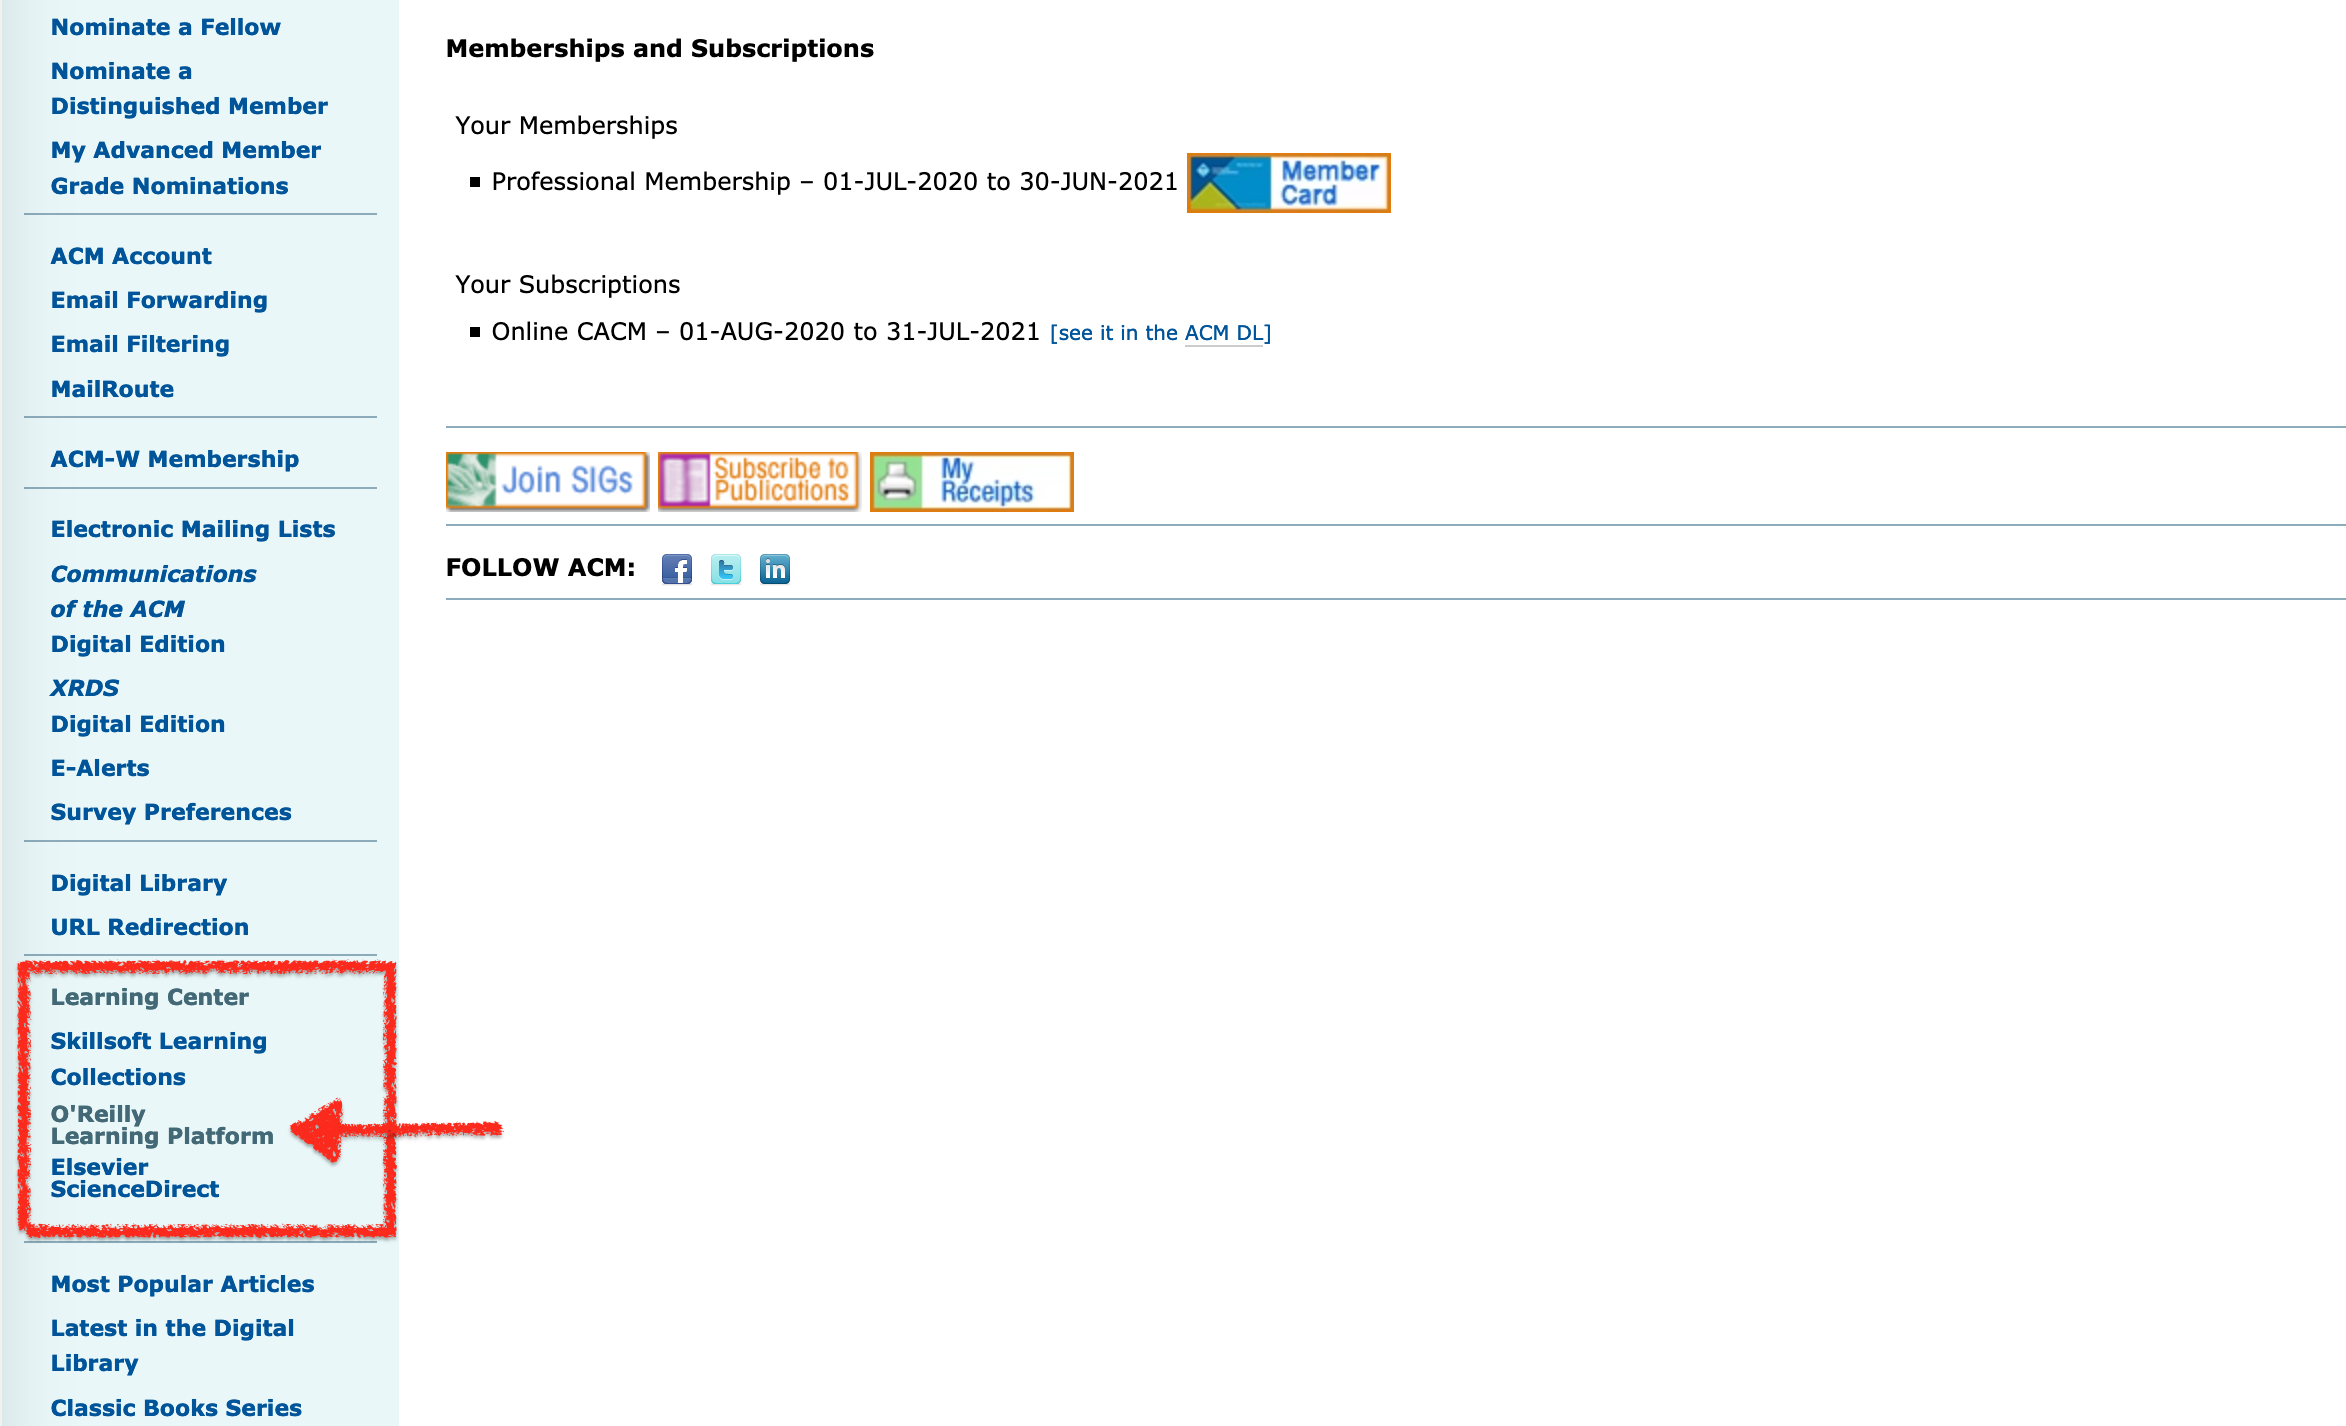
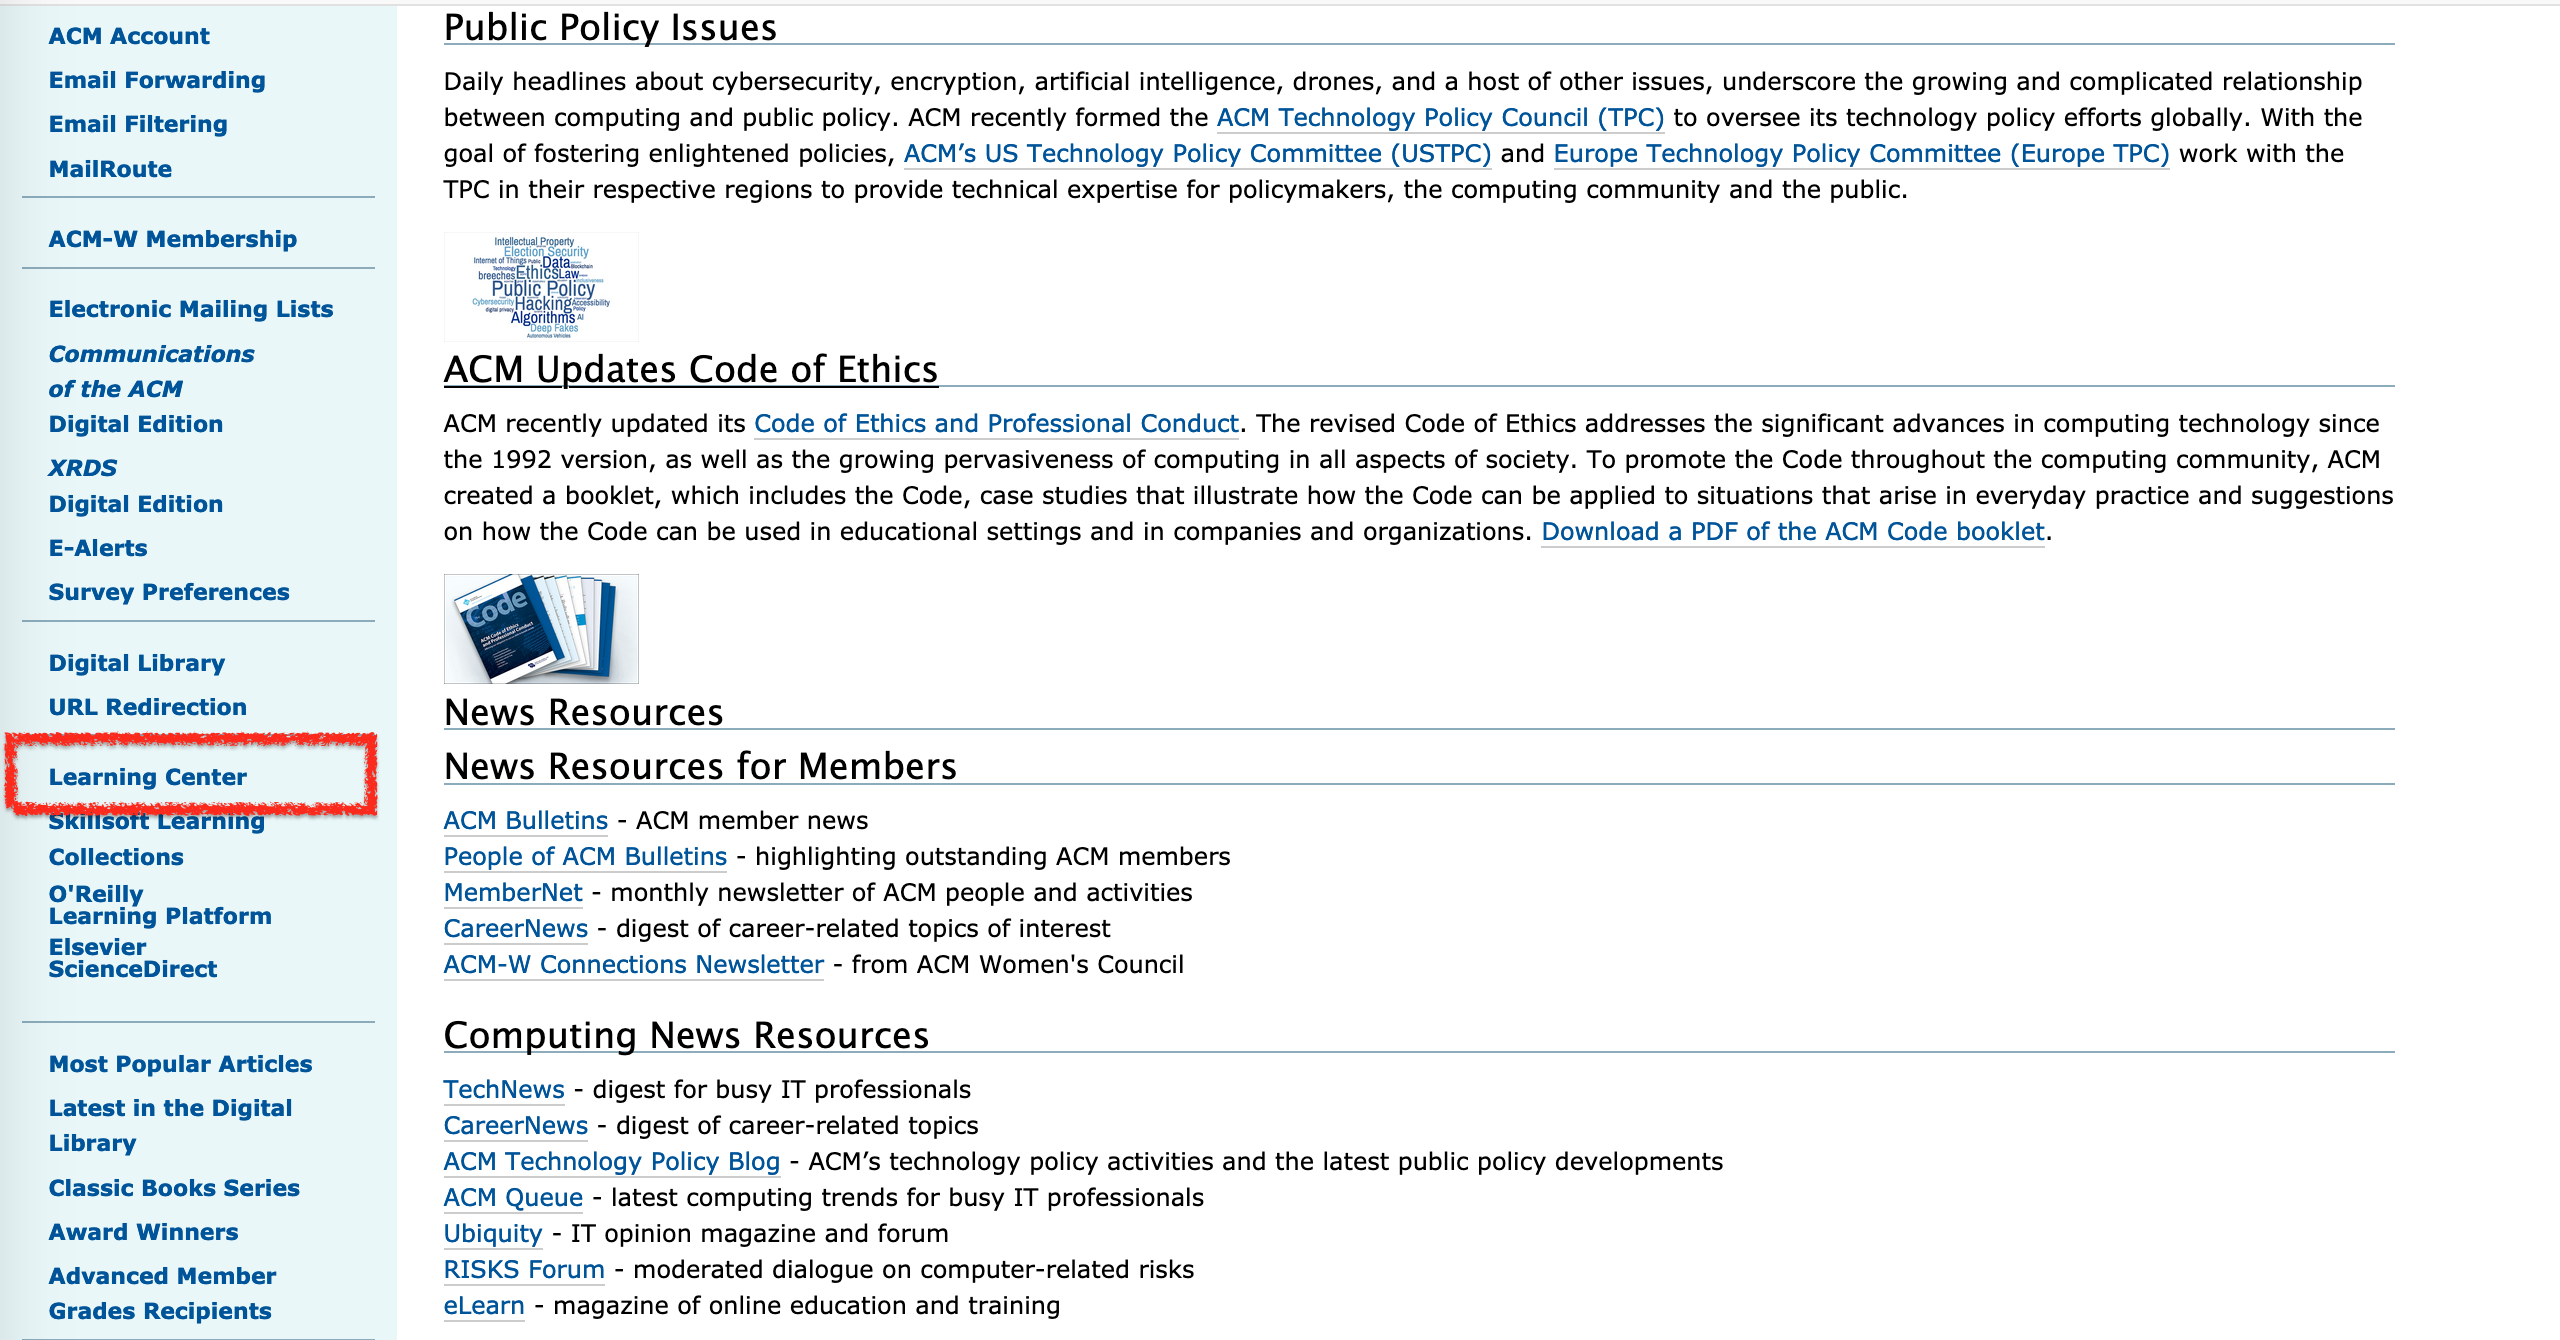
Added new styling for the post : accessing OReilly using ACM

Changed region(s): [[0.0, 0.0, 0.9335, 1.0]]

diff --git a/_posts/2021-01-23-access-oreilly-using-acm.md b/_posts/2021-01-23-access-oreilly-using-acm.md
@@ -1,5 +1,5 @@
 ---
-title: Access O'Reilly and many other learning platforms using ACM
+title: Access O'Reilly learning platform using ACM
 layout: post
 published: true
 category: programming
@@ -14,6 +14,8 @@ This can be done by reading books, watching video courses, attending conferences
 Of all these you can cover "reading books" and some part of "watching video courses" by using ACM (Association for Computing Machinery) membership.
 
 ACM infact keeps in mind developing nations and gives membership at a pretty reasonable cost. This is a really awesome gesture by ACM.
+
+Besides O'Reilly, ACM gives membership to some other learning resources/publications as well but access to O'Reilly itself is good enough reason to join ACM.
 
 To join ACM visit : https://www.acm.org/
 
@@ -54,7 +56,7 @@ You can fillup rest of the form and complete the payment process and choose the 
 
 After you have finished the membership process then comes the login part which is not clearly visible, hence I will help with some screenshots here.
 
-To Access your ACM Account:
+<ins>**To Access your ACM Account:**<ins>
 
 1. Click on myACM link located at top right section of the page as shown below.
 
@@ -74,51 +76,40 @@ To Access your ACM Account:
         <img src="/assets/images/oreilly_using_acm/acm-login.png" alt="ACM Login" class="img-responsive img-thumbnail">
     </p>
 
-To Access O'Reilly learning platform:
-
-There are 2 ways to access O'Reilly, first is via myACM account page and second is via ACM homepage.
-
-#### Via myACM account page:
----
 <br/>
 
-1. After login to myACM, scroll down on your account page and click on "**O'Reilly Learning Platform**"
+<ins>**To Access O'Reilly learning platform please follow the below mentioned steps:**<ins>
+
+1. Go to ACM learning center:
+
+    There are 2 ways to go to learning center, first is via myACM account page and second is via ACM homepage.
+
+    * <ins>Via myACM account page:<ins>
+
+    After login to myACM, scroll down on your account page and click on "**Learning Center**"
 
     <p align="middle">
         <img src="/assets/images/oreilly_using_acm/oreilly-myaccount.png" alt="OReilly via my account" class="img-responsive img-thumbnail">
     </p>
 
-2. Click on "**O'Reilly**" tab on the top left header section.
+    OR
 
-    <p align="middle">
-        <img src="/assets/images/oreilly_using_acm/oreilly.png" alt="O'Reilly" class="img-responsive img-thumbnail">
-    </p>
+    * <ins>Via ACM home page:<ins>
 
-After clicking on "O'Reilly" tab, you will land into homepage of O'Reilly learning platform.
-
-<p align="middle">
-    <img src="/assets/images/oreilly_using_acm/oreilly-dashboard.png" alt="O'Reilly Dashboard" class="img-responsive img-thumbnail">
-</p>
-
-   OR
-
-#### Via ACM home page:
----
-<br/>
-
-1. Go to homepage and click on "**Learning**" tab in the header menu options
+    Go to homepage and click on "**Learning**" tab in the header menu options and then click on "**Learning Center Home**"
 
     <p align="middle">
         <img src="/assets/images/oreilly_using_acm/oreilly-homepage.png" alt="OReilly via homepage" class="img-responsive img-thumbnail">
     </p>
 
+
 2. Click on "**O'Reilly**" tab on the top left header section.
 
     <p align="middle">
         <img src="/assets/images/oreilly_using_acm/oreilly.png" alt="O'Reilly" class="img-responsive img-thumbnail">
     </p>
 
-3. Incase your myACM session is not active, O'Reilly will show up a login page where you can use your ACM credentials.
+3. O'Reilly will show up a login page where you can use your ACM credentials.
 
     <p align="middle">
         <img src="/assets/images/oreilly_using_acm/oreilly-sso.png" alt="O'Reilly SSO" class="img-responsive img-thumbnail">
@@ -132,6 +123,7 @@ After entering your credentials, you will land into homepage of O'Reilly learnin
 
 That's all you need to do. Happy Learning :)
 
+<br/>
 
 # I am already having ACM membership but facing issues during accessing O'Reilly platform
 ---
